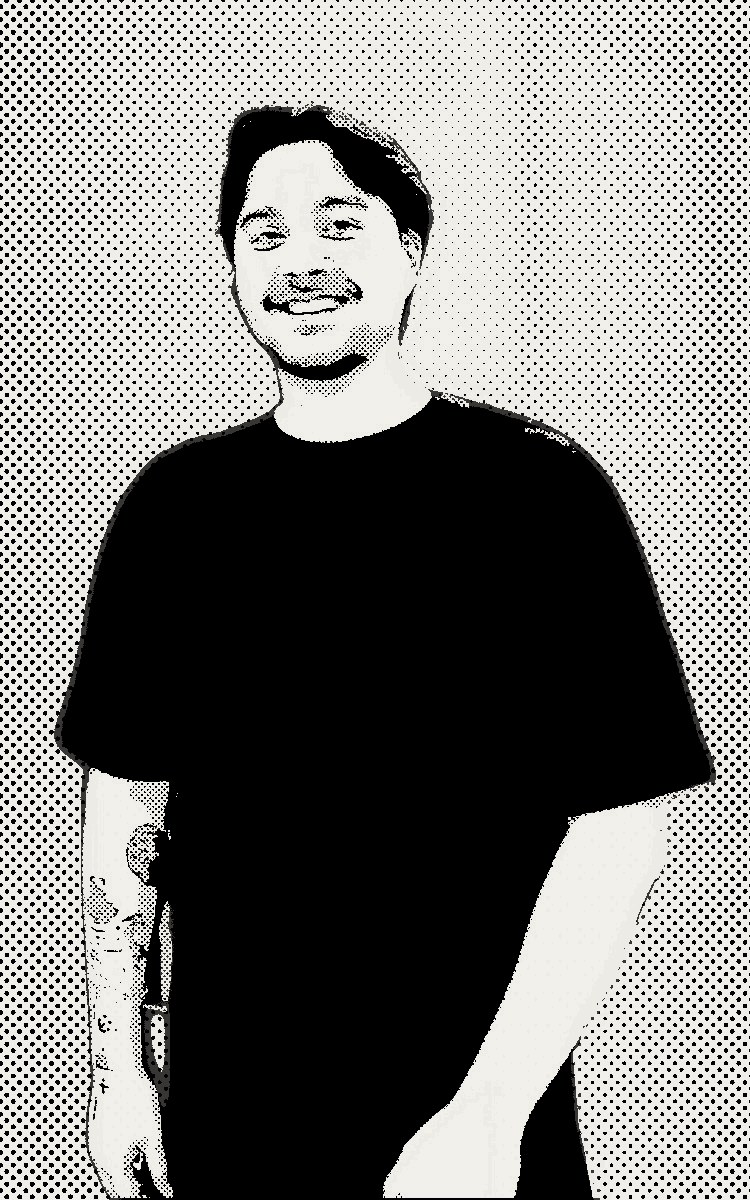
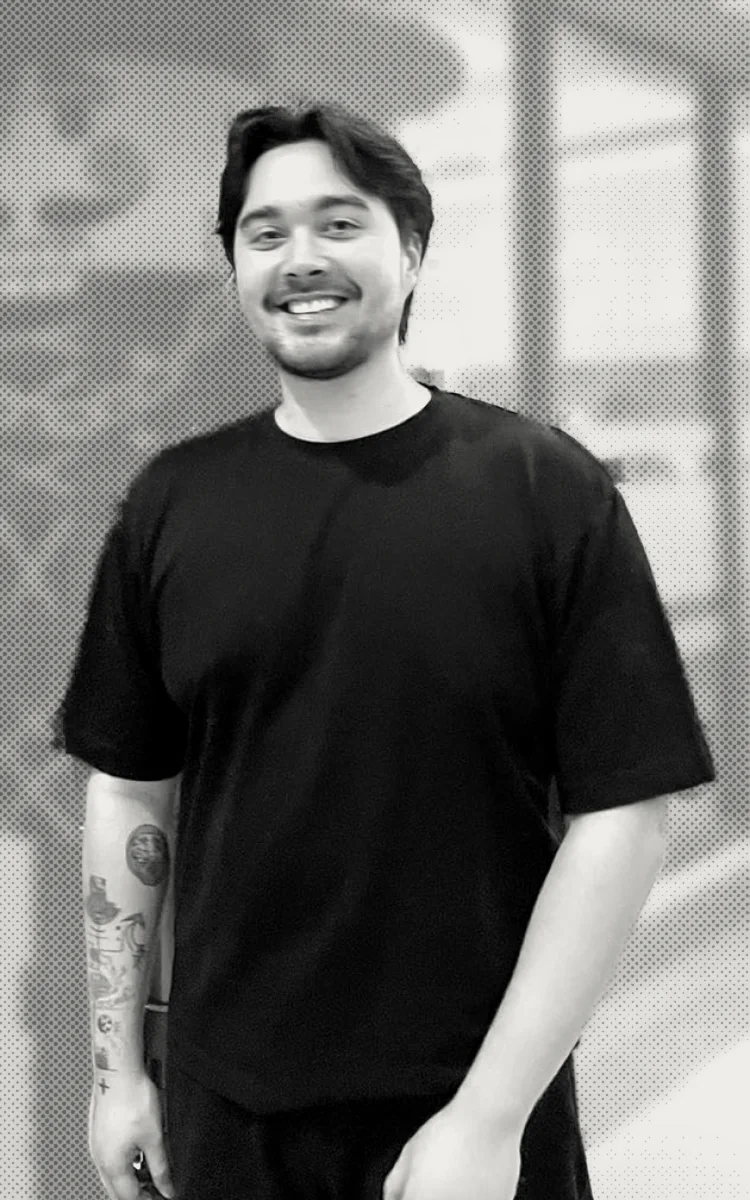
Use a natural black-and-white photo for the portrait

diff --git a/css/home.css b/css/home.css
@@ -208,7 +208,7 @@
   border: var(--panel-border) solid var(--rule);
   background: radial-gradient(var(--tone) 1.1px, transparent 1.4px) 0 0 / 7px 7px, var(--paper-2);
 }
-/* The portrait is already inked in black on paper, like the rest of the volume */
+/* The portrait is a real photo in black and white, with a light screentone behind, like the rest of the volume */
 .author .portrait img { width: 100%; height: 100%; object-fit: cover; object-position: 50% 0; }
 .author-bubble {
   position: absolute; right: -1.5rem; bottom: -1.2rem; max-width: 15rem; padding: 0.8rem 1.1rem;

diff --git a/index.html b/index.html
@@ -194,7 +194,7 @@
   <div class="wrap author">
     <figure class="author-panel">
       <div class="portrait">
-        <img src="img/portrait.webp" alt="Cole Crawley, drawn as a manga panel" width="750" height="1200" loading="lazy" decoding="async">
+        <img src="img/portrait.webp" alt="Cole Crawley" width="750" height="1200" loading="lazy" decoding="async">
       </div>
       <figcaption class="author-bubble">New tool? Give me a week.</figcaption>
     </figure>
